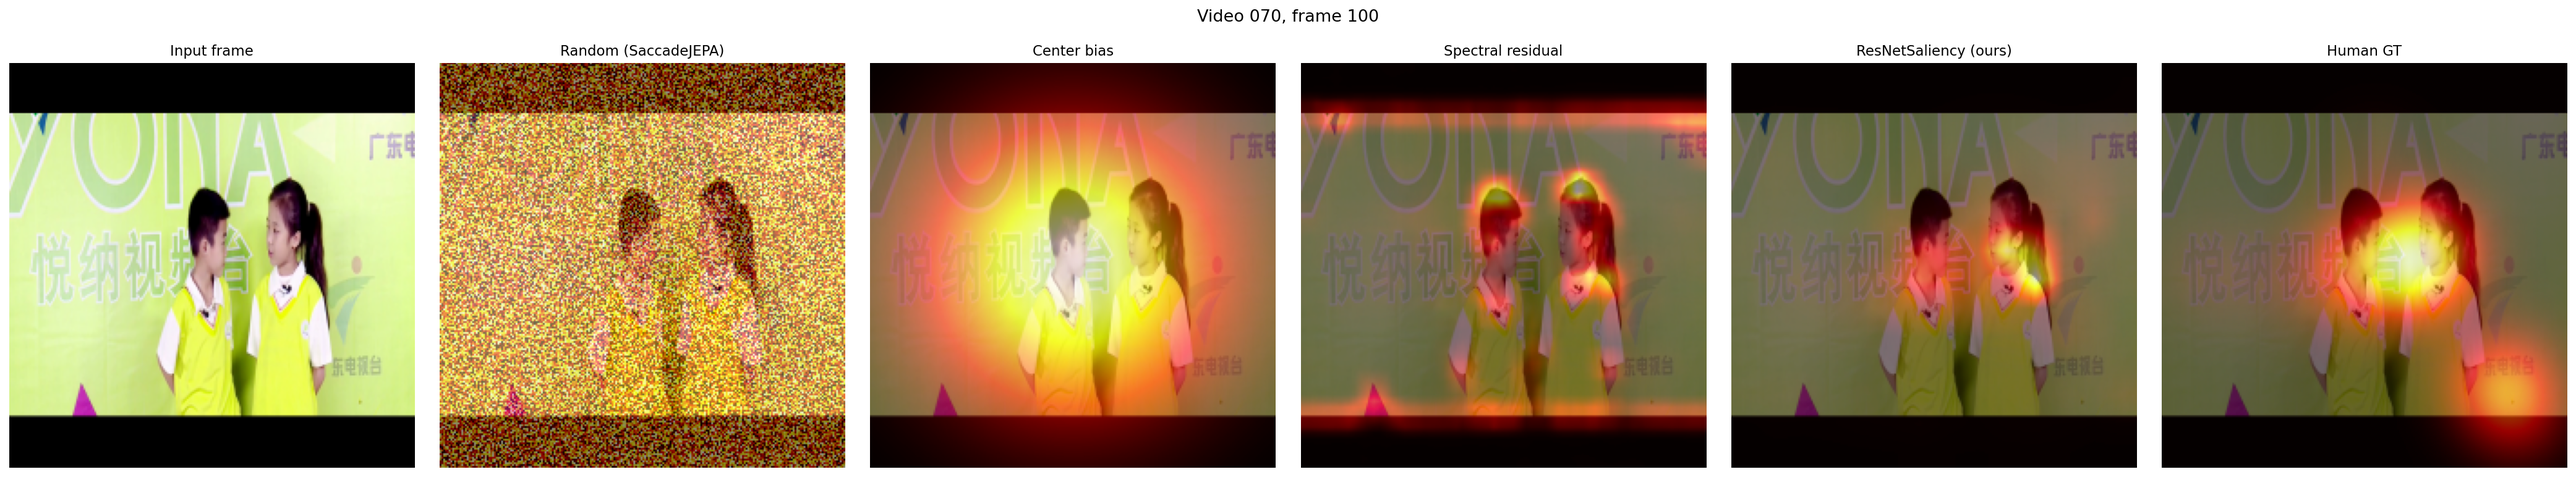
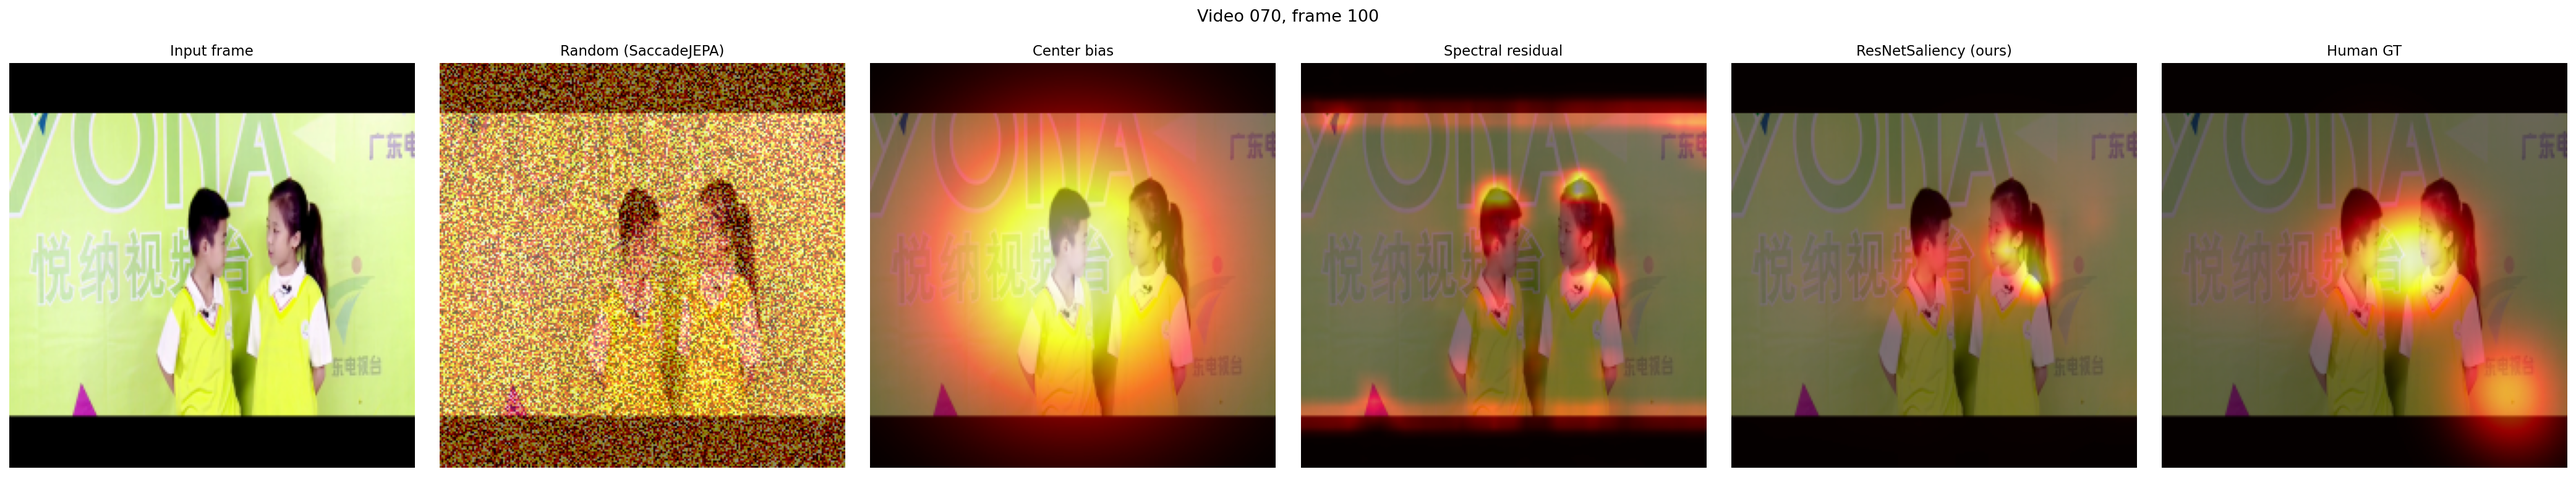
UPDATE: Changed the itti method in saliency with spectral_residual method

Changed region(s): [[0.156, 0.1244, 0.3433, 0.9948]]

diff --git a/gazejepa/saliency/spectral_residual.py b/gazejepa/saliency/spectral_residual.py
@@ -1,0 +1,62 @@
+"""Spectral-residual saliency (Hou & Zhang, CVPR 2007) via OpenCV's contrib module.
+
+"""
+
+from __future__ import annotations
+
+import numpy as np
+import torch
+
+from gazejepa.saliency.base import SaliencySource
+
+
+class SpectralResidualSaliency(SaliencySource):
+    """Hou-Zhang spectral-residual saliency via OpenCV's StaticSaliencySpectralResidual.
+
+    Input: (B, 3, H, W) float tensor in [0, 1]. Runs per-image on a uint8
+    BGR frame; the SaliencySource ABC resamples and renormalises the output.
+    """
+
+    name = "spectral_residual"
+
+    def __init__(self) -> None:
+        try:
+            import cv2
+            self._detector = cv2.saliency.StaticSaliencySpectralResidual_create()
+        except (AttributeError, ImportError) as exc:
+            raise ImportError(
+                "cv2.saliency is not available. "
+                "Install opencv-contrib-python or opencv-contrib-python-headless."
+            ) from exc
+
+    def _compute(self, images: torch.Tensor) -> torch.Tensor:
+        import cv2
+
+        b = images.shape[0]
+        if images.dtype == torch.uint8:
+            np_imgs = images.detach().cpu().numpy()
+        else:
+            np_imgs = (
+                images.detach().clamp(0, 1).cpu().numpy() * 255.0
+            ).astype(np.uint8)
+
+        maps: list[torch.Tensor] = []
+        for i in range(b):
+            rgb = np.transpose(np_imgs[i], (1, 2, 0))
+            bgr = cv2.cvtColor(rgb, cv2.COLOR_RGB2BGR)
+            ok, sal = self._detector.computeSaliency(bgr)
+            if not ok:
+                sal = np.ones(bgr.shape[:2], dtype=np.float32)
+            maps.append(torch.from_numpy(sal.astype(np.float32)))
+        return torch.stack(maps, dim=0).to(images.device)
+
+
+if __name__ == "__main__":
+    from gazejepa.saliency.base import assert_saliency_contract
+
+    src = SpectralResidualSaliency()
+    img = torch.full((2, 3, 64, 96), 0.4)
+    img[0, :, 20:35, 30:50] = 1.0
+    sal = src(img)
+    assert_saliency_contract(sal, batch_size=2)
+    print(f"SpectralResidualSaliency OK — shape={tuple(sal.shape)}")

diff --git a/gazejepa/saliency/learned.py b/gazejepa/saliency/learned.py
@@ -1,8 +1,6 @@
 """Small CNN saliency predictor (~50K params) trained on FIND fixation heatmaps.
 
-Lightweight alternative to :class:`ResNetSaliency` — used as a sanity-check
-baseline that the data-driven signal alone (no ImageNet prior) can beat
-classical saliency.
+Lightweight alternative to ResNetSaliency with no ImageNet prior.
 """
 
 from __future__ import annotations
@@ -20,13 +18,7 @@ _IMAGENET_STD: tuple[float, float, float] = (0.229, 0.224, 0.225)
 
 
 class LearnedSaliency(nn.Module, SaliencySource):
-    """4-conv CNN, GroupNorm + GELU, one stride-2 downsample.
-
-    Input is internally ImageNet-normalised so callers can pass raw ``[0, 1]``
-    tensors at any resolution; the network is fully convolutional. Output
-    grid is the input H/2 × W/2; the ``SaliencySource`` contract resamples to
-    full resolution.
-    """
+    """4-layer CNN with one stride-2 downsample; output is H/2 × W/2."""
 
     name = "learned"
 
@@ -57,8 +49,7 @@ class LearnedSaliency(nn.Module, SaliencySource):
         b = logits.shape[0]
         return logits.view(b, -1).softmax(dim=1).view_as(logits)
 
-    # ``nn.Module.__call__`` dispatches to ``forward``; route it through the
-    # ``SaliencySource`` contract so callers get the validated, sum-to-1 map.
+    # nn.Module routes calls through forward(); override to use SaliencySource.__call__.
     def forward(self, images: torch.Tensor) -> torch.Tensor:  # type: ignore[override]
         return SaliencySource.__call__(self, images)
 

diff --git a/gazejepa/saliency/center_bias.py b/gazejepa/saliency/center_bias.py
@@ -1,16 +1,4 @@
-"""Image-centered Gaussian saliency (FIND-style center prior).
-
-Two flavours, both from my saliency-comparison study:
-
-- :class:`CenterBiasSaliency` — fixed parametric Gaussian, no data needed.
-  Precomputed at ``image_size × image_size`` with σ = ``image_size / 4``;
-  the :class:`SaliencySource` ABC resamples to whatever resolution callers
-  need.
-- :class:`CenterBiasDataFit` — average fixation heatmap over the FIND training
-  split. Standard "data-fit center bias" from the saliency literature;
-  expected to outperform the parametric variant on FIND because the dataset
-  is face-heavy and the fitted bias captures the true face-centered pattern.
-"""
+"""Center bias saliency — parametric Gaussian and data-fit variants."""
 
 from __future__ import annotations
 
@@ -56,12 +44,9 @@ CenterBiasParametric = CenterBiasSaliency
 
 
 class CenterBiasDataFit(SaliencySource):
-    """Mean fixation heatmap over the FIND training split.
+    """Mean fixation heatmap fitted over the FIND training split.
 
-    On first instantiation, the cache file is loaded if present; otherwise
-    call :method:`build_and_cache` once to compute it (10–20 min on a laptop).
-    The cached map is stored at native ``image_size × image_size`` and the
-    ``SaliencySource`` contract resamples to whatever resolution callers need.
+    Loads from cache on first use; call build_and_cache() once to create it.
     """
 
     name = "center_bias_data_fit"

diff --git a/scripts/evaluate_jepa_reuse.py b/scripts/evaluate_jepa_reuse.py
@@ -60,7 +60,7 @@ from gazejepa.evaluation.evaluate import (  # noqa: E402
 from gazejepa.evaluation.scanpath_metrics import multimatch_backend  # noqa: E402
 from gazejepa.saliency import (  # noqa: E402
     CenterBiasParametric,
-    IttiKochSaliency,
+    SpectralResidualSaliency,
     RandomSaliency,
     ResNetSaliency,
     SaliencySource,
@@ -73,7 +73,7 @@ from gazejepa.saliency import (  # noqa: E402
 
 
 _SALIENCY_CHOICES = (
-    "resnet", "itti_koch", "center_bias", "random",
+    "resnet", "spectral_residual", "center_bias", "random",
 )
 
 
@@ -85,9 +85,7 @@ def build_saliency(
 ) -> SaliencySource:
     """Instantiate a saliency source by name.
 
-    The default ``resnet`` source loads Arash's trained
-    ``ResNetSaliency`` checkpoint, matching the training-time default
-    used by ``scripts/train_jepa_reuse.py``.
+    The default ``resnet`` source loads the trained ResNetSaliency checkpoint.
     """
     name = name.lower()
     if name == "resnet":
@@ -98,8 +96,8 @@ def build_saliency(
                 f"scripts/train_saliency.py or pass --resnet-checkpoint."
             )
         return ResNetSaliency.load(str(ckpt), device=device)
-    if name == "itti_koch":
-        return IttiKochSaliency()
+    if name == "spectral_residual":
+        return SpectralResidualSaliency()
     if name == "center_bias":
         return CenterBiasParametric(size=image_size)
     if name == "random":

diff --git a/scripts/train_jepa_reuse.py b/scripts/train_jepa_reuse.py
@@ -24,7 +24,7 @@ from gazejepa.data import (
 from gazejepa.jepa_reuse import make_gaze_jepa
 from gazejepa.saliency import (
     CenterBiasSaliency,
-    IttiKochSaliency,
+    SpectralResidualSaliency,
     RandomSaliency,
     ResNetSaliency,
 )
@@ -168,8 +168,8 @@ def build_saliency_source(args: argparse.Namespace):
                 f"{ckpt} (override with --resnet-checkpoint)."
             )
         return ResNetSaliency.load(str(ckpt))
-    if name == "itti_koch":
-        return IttiKochSaliency()
+    if name == "spectral_residual":
+        return SpectralResidualSaliency()
     if name == "center_bias":
         return CenterBiasSaliency(size=(args.image_size, args.image_size))
     if name == "random":
@@ -414,11 +414,11 @@ def build_arg_parser() -> argparse.ArgumentParser:
     p.add_argument(
         "--saliency",
         default="resnet",
-        choices=["resnet", "itti_koch", "center_bias", "random"],
+        choices=["resnet", "spectral_residual", "center_bias", "random"],
         help=(
-            "Saliency source for GazeCropper. Default 'resnet' uses Arash's "
+            "Saliency source for GazeCropper. Default 'resnet' loads the "
             "trained ResNetSaliency checkpoint (best AUC on FIND); the "
-            "other options are for ablations or as fallbacks."
+            "other options are for ablations or fallbacks."
         ),
     )
     p.add_argument(

diff --git a/gazejepa/saliency/base.py b/gazejepa/saliency/base.py
@@ -1,8 +1,7 @@
-"""Abstract base class for saliency sources.
+"""Base class for all saliency sources.
 
-Subclasses implement ``_compute`` (raw, possibly low-res, possibly un-normalised);
-``__call__`` resamples to image resolution and sum-normalises per image so any
-source plugs in regardless of its native output size.
+Subclasses implement _compute(); __call__ handles resizing to input resolution
+and per-image sum normalization.
 """
 
 from __future__ import annotations
@@ -14,16 +13,14 @@ import torch.nn.functional as F
 
 
 class SaliencySource(ABC):
-    """Abstract base class for saliency sources."""
-
     name: str = "abstract"
 
     @abstractmethod
     def _compute(self, images: torch.Tensor) -> torch.Tensor:
-        """Raw saliency map ``(B, H_out, W_out)``; need not be normalised."""
+        """Return raw saliency (B, H_out, W_out); normalization is done in __call__."""
 
     def __call__(self, images: torch.Tensor) -> torch.Tensor:
-        """Contract-compliant saliency: ``(B, H, W)`` float32, non-negative, sum-to-1 per image."""
+        """Returns (B, H, W) float32 saliency, non-negative, summing to 1 per image."""
         if not isinstance(images, torch.Tensor):
             raise TypeError(f"Expected torch.Tensor, got {type(images).__name__}")
         if images.dim() != 4 or images.shape[1] != 3:

diff --git a/gazejepa/evaluation/saliency_comparison.py b/gazejepa/evaluation/saliency_comparison.py
@@ -1,8 +1,4 @@
-"""Four-source saliency comparison on a FIND split.
-
-Headline driver for Arash's saliency-prediction track. Evaluates random,
-center-bias, classical, and a learned source on
-the same frames using :mod:`gazejepa.evaluation.saliency_metrics`.
+"""Saliency comparison on a FIND split.
 """
 
 from __future__ import annotations
@@ -106,14 +102,14 @@ def run_full_comparison(
     """
     if sources is None:
         from gazejepa.saliency.center_bias import CenterBiasSaliency
-        from gazejepa.saliency.itti_koch import IttiKochSaliency
+        from gazejepa.saliency.spectral_residual import SpectralResidualSaliency
         from gazejepa.saliency.random import RandomSaliency
         from gazejepa.saliency.resnet_saliency import ResNetSaliency
 
         built: list[SaliencySource] = [
             RandomSaliency(),
             CenterBiasSaliency(),
-            IttiKochSaliency(),
+            SpectralResidualSaliency(),
         ]
         if resnet_checkpoint and Path(resnet_checkpoint).is_file():
             built.append(ResNetSaliency.load(str(resnet_checkpoint), device=device))

diff --git a/gazejepa/saliency/resnet_saliency.py b/gazejepa/saliency/resnet_saliency.py
@@ -1,9 +1,7 @@
 """ResNet-18 backbone + lightweight head saliency predictor.
 
-Internally rescales any input to the ResNet-pretrained 224×224 grid and applies
-ImageNet normalisation, so callers can pass raw ``[0, 1]`` images at any
-resolution. ``SaliencySource.__call__`` then resamples back to the input size
-and re-normalises to sum-to-1.
+Internally rescales input to 224×224 and applies ImageNet normalisation;
+callers pass raw [0, 1] images at any resolution.
 """
 
 from __future__ import annotations
@@ -94,8 +92,7 @@ class ResNetSaliency(nn.Module, SaliencySource):
         b = logits.shape[0]
         return logits.view(b, -1).softmax(dim=1).view_as(logits)
 
-    # ``nn.Module.__call__`` dispatches to ``forward``; route it through the
-    # ``SaliencySource`` contract so callers get the validated, sum-to-1 map.
+    # nn.Module routes calls through forward(); override to use SaliencySource.__call__.
     def forward(self, images: torch.Tensor) -> torch.Tensor:  # type: ignore[override]
         return SaliencySource.__call__(self, images)
 

diff --git a/gazejepa/saliency/__init__.py b/gazejepa/saliency/__init__.py
@@ -10,7 +10,7 @@ from gazejepa.saliency.center_bias import (
     CenterBiasParametric,
     CenterBiasSaliency,
 )
-from gazejepa.saliency.itti_koch import IttiKochSaliency
+from gazejepa.saliency.spectral_residual import SpectralResidualSaliency
 from gazejepa.saliency.learned import LearnedSaliency
 from gazejepa.saliency.random import RandomSaliency
 from gazejepa.saliency.resnet_saliency import ResNetSaliency
@@ -20,7 +20,7 @@ __all__ = [
     "CenterBiasDataFit",
     "CenterBiasParametric",
     "CenterBiasSaliency",
-    "IttiKochSaliency",
+    "SpectralResidualSaliency",
     "LearnedSaliency",
     "RandomSaliency",
     "ResNetSaliency",

diff --git a/gazejepa/saliency/random.py b/gazejepa/saliency/random.py
@@ -1,6 +1,4 @@
-"""Uniform random saliency — SaccadeJEPA's implicit baseline made explicit.
-
-"""
+"""Uniform random saliency — baseline matching SaccadeJEPA's random crop selection."""
 
 from __future__ import annotations
 
@@ -10,7 +8,7 @@ from gazejepa.saliency.base import SaliencySource, assert_saliency_contract
 
 
 class RandomSaliency(SaliencySource):
-    """Per-pixel uniform random saliency. Lower-bound for the comparison study."""
+    """Uniform random saliency map. Serves as a lower-bound baseline."""
 
     name = "random"
 
